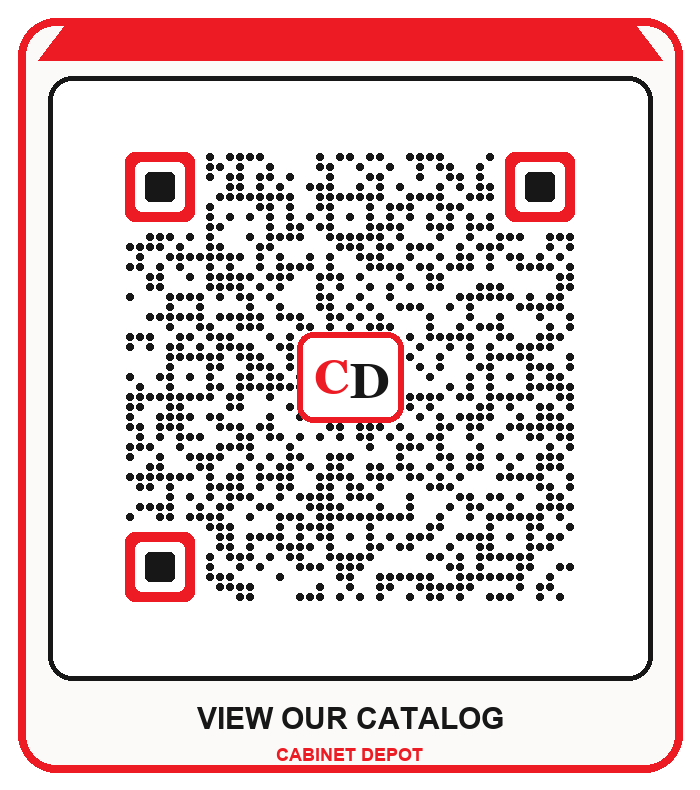
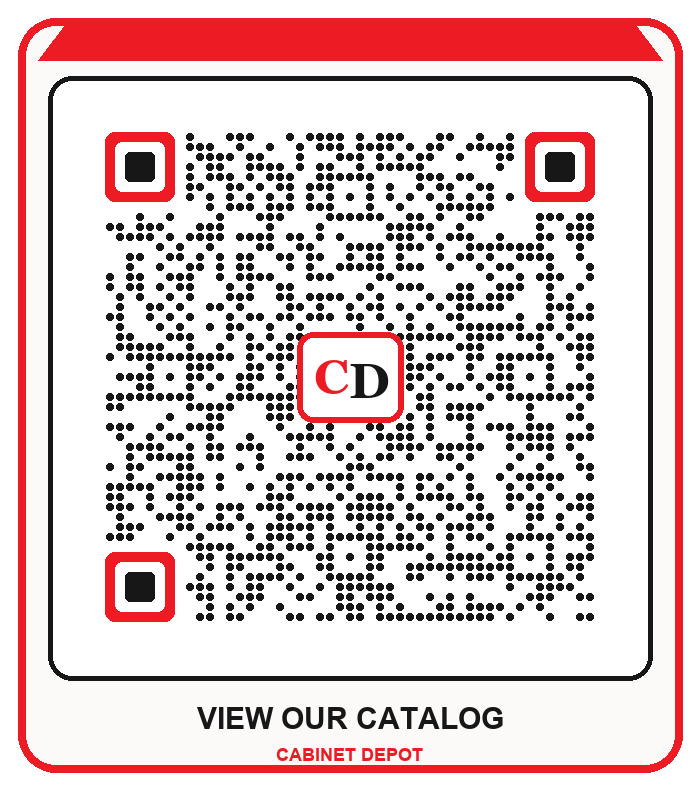
Add Thermafoil and soft-close details; open catalog directly

Changed region(s): [[0.15, 0.1519, 0.87, 0.7899]]

diff --git a/index.html b/index.html
@@ -20,12 +20,12 @@
           <a class="button whatsapp" href="https://wa.me/18684765020?text=Hi%20Cabinet%20Depot%2C%20I%27d%20like%20a%20free%20kitchen%20quote." target="_blank" rel="noopener">WhatsApp us</a>
           <a class="button call" href="tel:+18684765020">Call 868 476 5020</a>
         </div>
-        <a class="catalog-link" href="catalog.html">Browse the 2025 product catalog →</a>
+        <a class="catalog-link" href="cabinet-depot-catalog-2025.pdf" target="_blank" rel="noopener">Open the 2025 product catalog →</a>
       </div>
     </section>
 
     <section class="benefits" aria-label="Cabinet Depot benefits">
-      <article><b>¾-inch</b><span>Moisture-resistant melamine</span></article>
+      <article><b>¾-inch</b><span>Moisture-resistant melamine with Thermafoil fronts and soft-closing doors and drawers</span></article>
       <article><b>7 days or less</b><span>Ready-stock orders</span></article>
       <article><b>Free</b><span>3D designs and quotes</span></article>
       <article><b>Free delivery</b><span>Anywhere in Trinidad</span></article>

diff --git a/catalog.html b/catalog.html
@@ -5,10 +5,11 @@
   <meta name="viewport" content="width=device-width,initial-scale=1">
   <meta name="theme-color" content="#ed1c24">
   <meta name="description" content="Browse the Cabinet Depot 2025 product catalog.">
-  <title>Cabinet Depot | 2025 Product Catalog</title>
+  <meta http-equiv="refresh" content="0; url=cabinet-depot-catalog-2025.pdf">
+  <title>Opening Cabinet Depot 2025 Product Catalog…</title>
   <link rel="stylesheet" href="site.css">
 </head>
-<body class="catalog-page">
+<body class="catalog-page" onload="window.location.replace('cabinet-depot-catalog-2025.pdf')">
   <header class="catalog-header">
     <a href="./"><img src="cabinet-depot-logo.png" alt="Cabinet Depot"></a>
     <div class="catalog-actions">

diff --git a/README.md b/README.md
@@ -3,6 +3,6 @@
 Official customer flyer and 2025 product catalog.
 
 - Flyer: https://ramphalharrilal.github.io/cabinet-depot-tt/
-- Catalog: https://ramphalharrilal.github.io/cabinet-depot-tt/catalog.html
+- Catalog: https://ramphalharrilal.github.io/cabinet-depot-tt/cabinet-depot-catalog-2025.pdf
 
 The branded QR artwork is included for both links.
